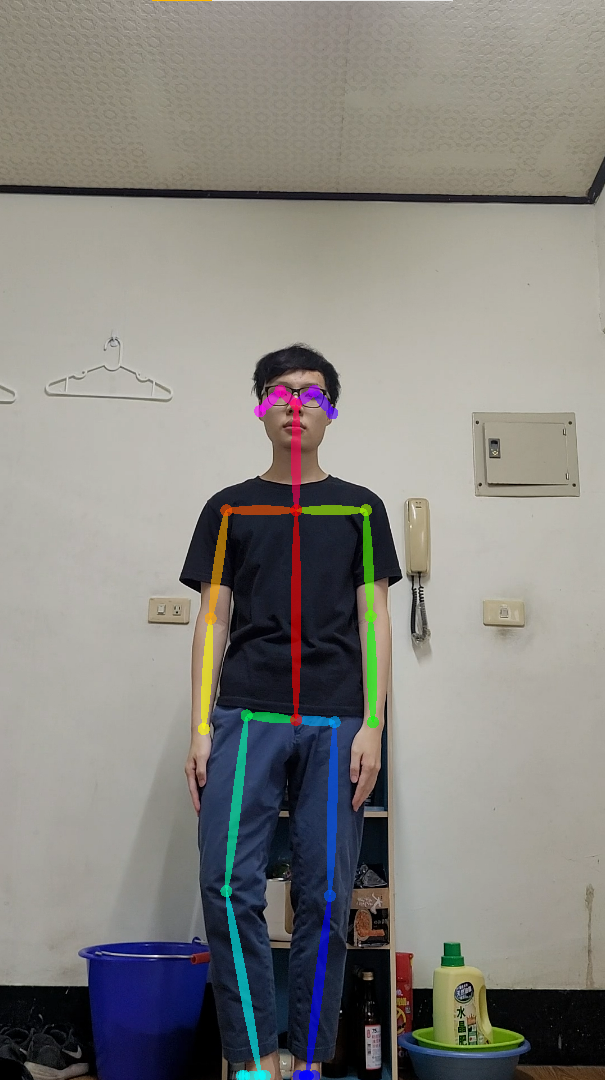
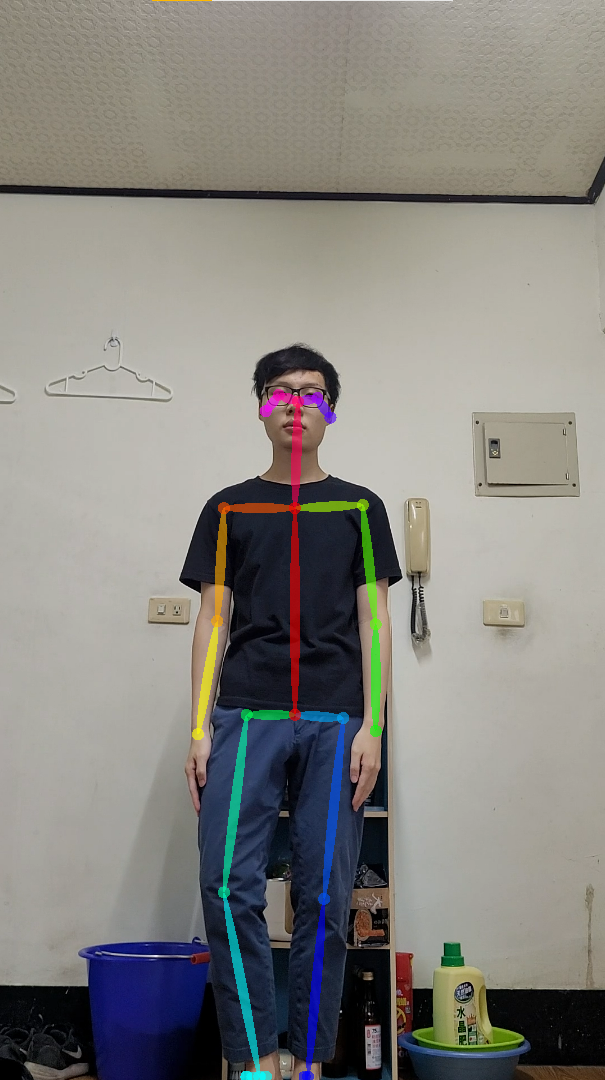
picture judgement on ubuntu18.04

diff --git a/ActionScoring_Image/ImageJudge.py b/ActionScoring_Image/ImageJudge.py
@@ -172,7 +172,7 @@ def VectorDiffLoss(vec1,vec2):
         points += 500000
     return points/16
 
-p1 = subprocess.Popen(['C:\\Users\\michael\\Desktop\\openpose\\build\\x64\\Release\\OpenPoseDemo.exe', '--model_folder', 'C:\\Users\\michael\\Desktop\\openpose\\models', '--num_gpu_start', '0', '--display', '0', '--net_resolution', '640x480', '--image_dir', './Image', '--write_images', 'RenderImage', '--write_json', 'outputJson']) 
+p1 = subprocess.Popen(['./../openpose/build/examples/openpose/openpose.bin', '--model_folder', './../openpose/models', '--num_gpu_start', '0', '--display', '0', '--net_resolution', '320x320', '--image_dir', './Image', '--write_images', 'RenderImage', '--write_json', 'outputJson']) 
 p1.wait()
 
 poseVector = generateVector("outputJson/Compare_keypoints.json") #取得比對的向量資訊
